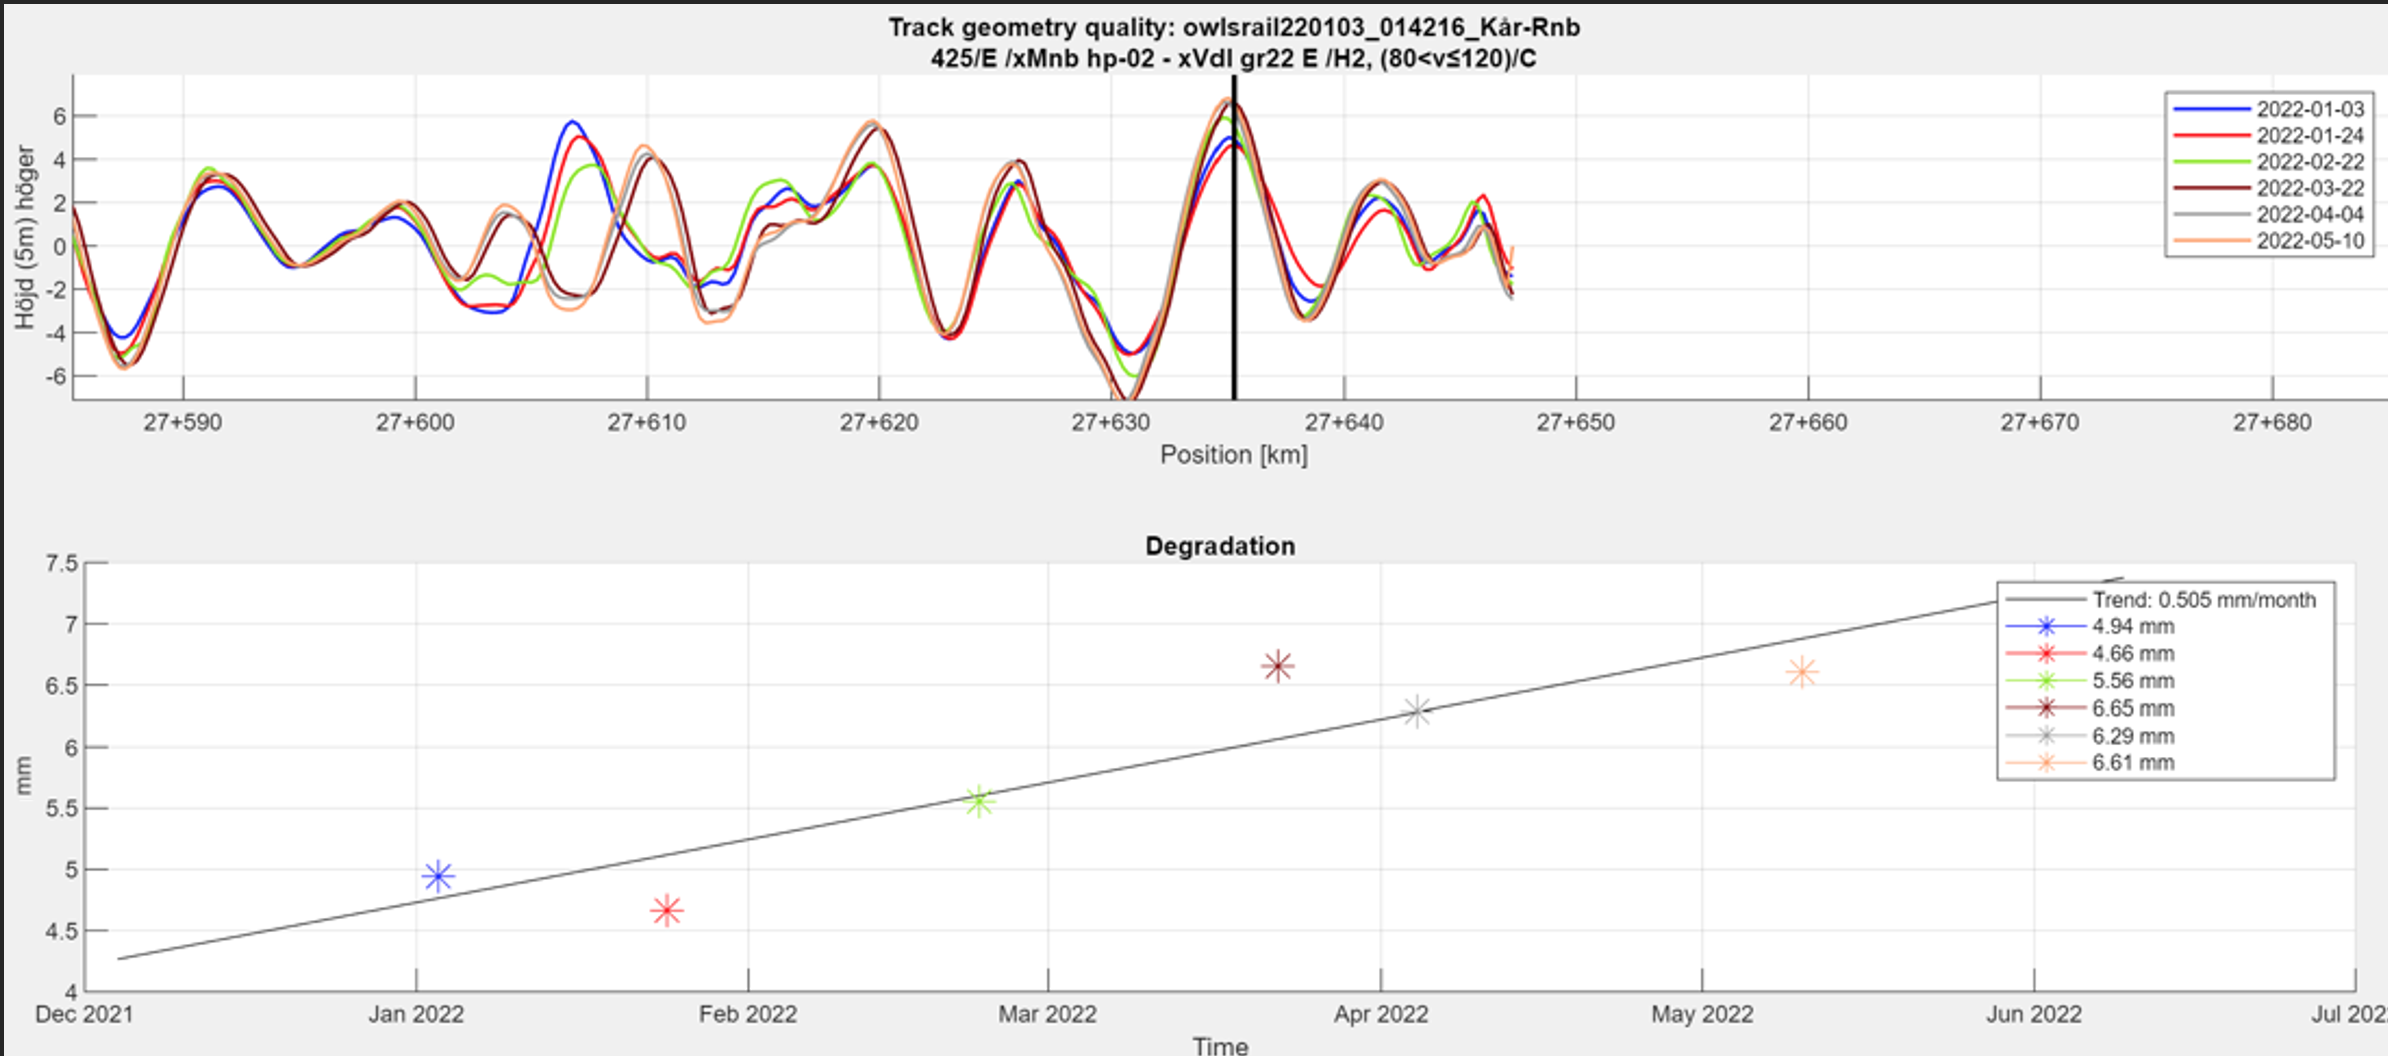
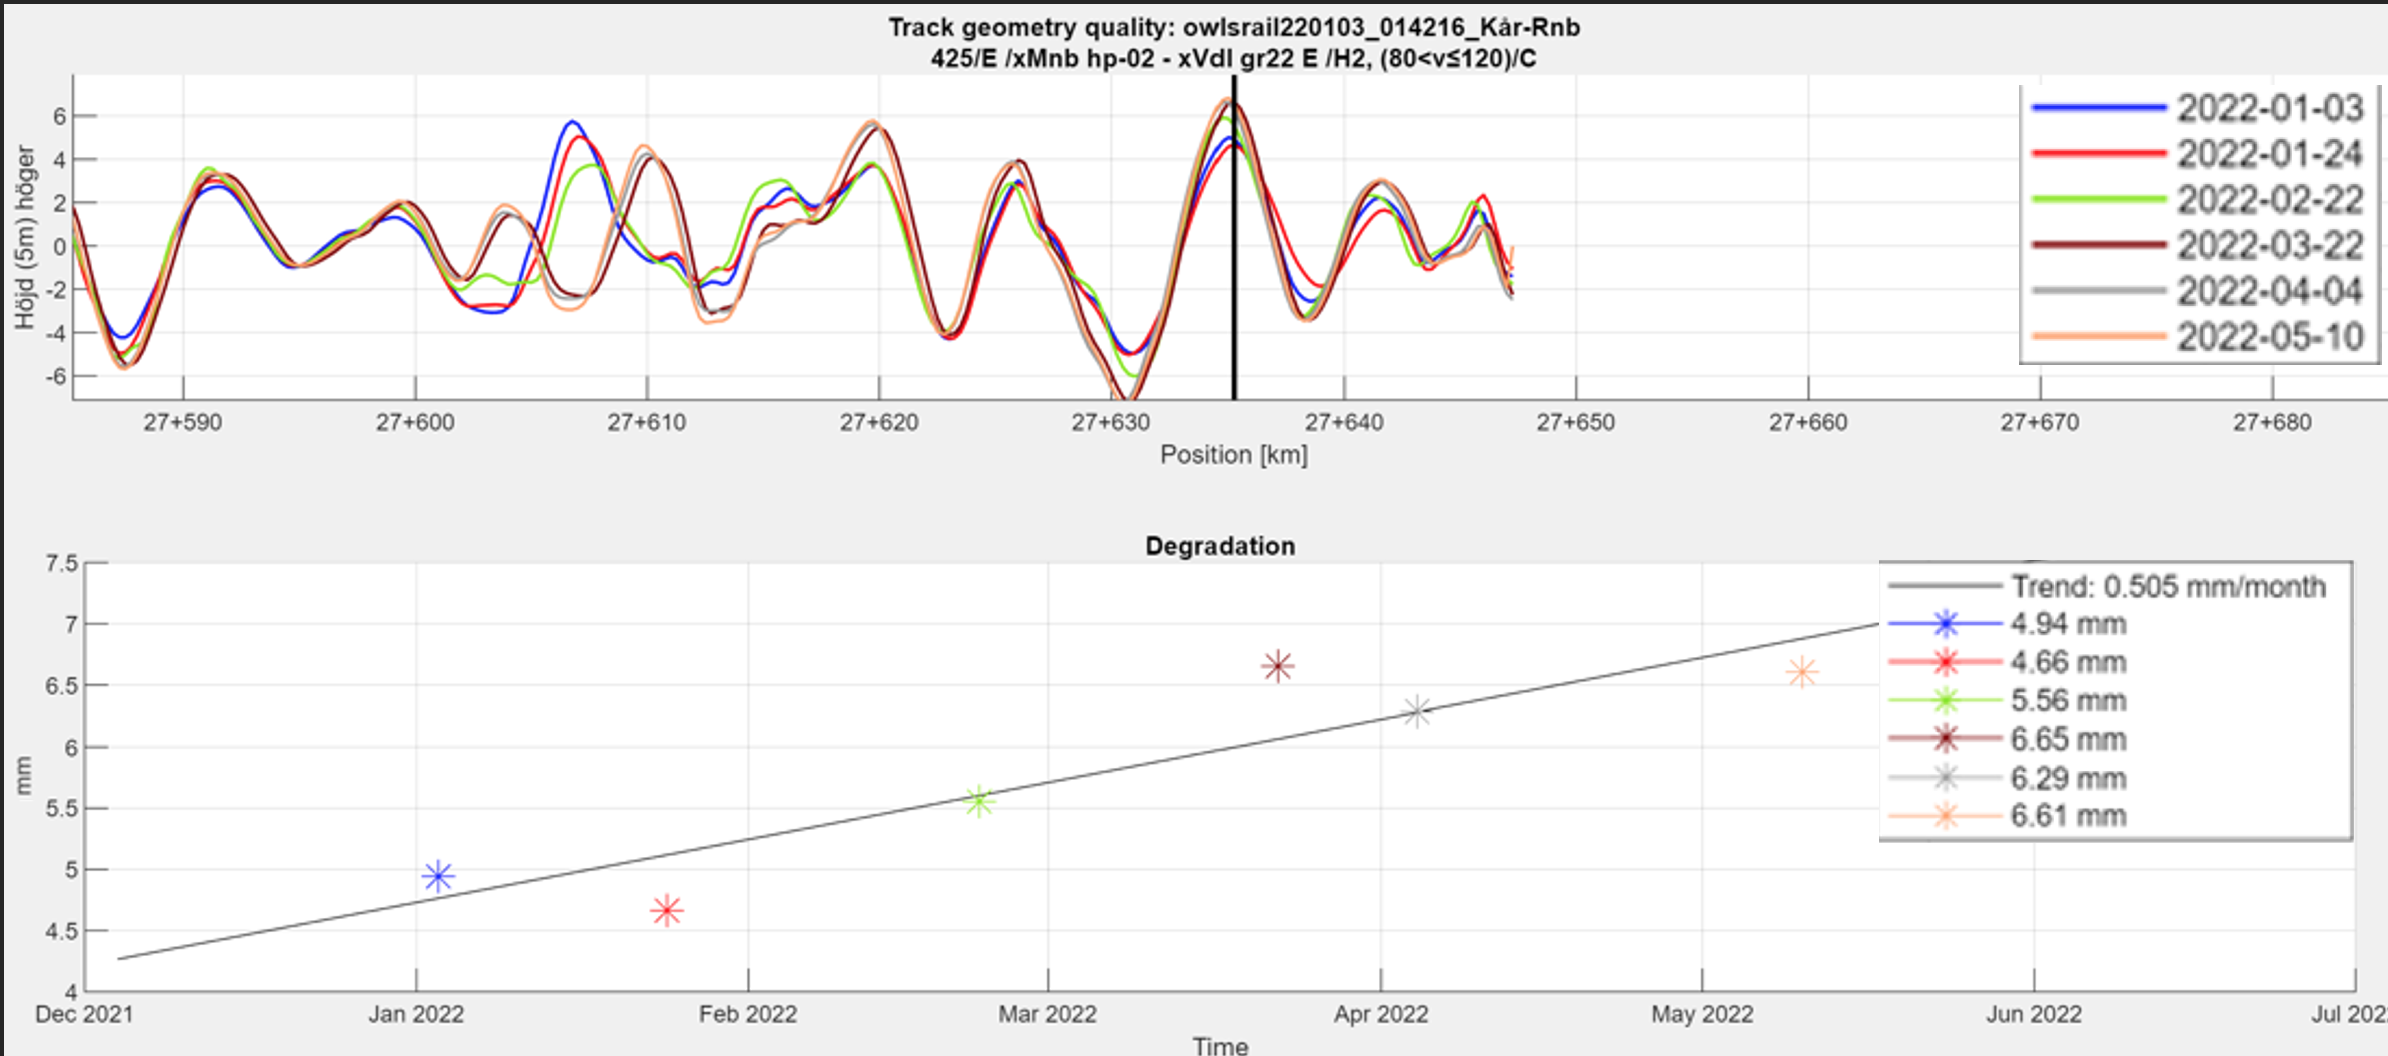
fixed some images and legending

Changed region(s): [[0.7747, 0.5312, 0.9916, 0.8125], [0.8367, 0.0625, 1.0, 0.3438]]

diff --git a/content/05.Predictive modeling.md b/content/05.Predictive modeling.md
@@ -54,7 +54,7 @@ $Gauge_{linear} = \left\lbrace\begin{array}{c} 1.309*Curvature + 1.201~~~~~~~~wh
 
 **Linear Exponential:**
 
-$Gauge_{exp} = \left\lbrace\begin{array}{c} 0.273*e^{Curvature} + 1.247~~~~~~~~when~ Curvature \geq 0\\ 0.273*e^{-Curvature} + 1.24~~~~~~~~when~ Curvature < 0 \end{array}\right.$
+$Gauge_{exp} = \left\lbrace\begin{array}{c} 0.273*e^{Curvature} + 1.247~~~~~~~~when~ Curvature \geq 0\\ 0.273*e^{-Curvature} + 1.247~~~~~~~~when~ Curvature < 0 \end{array}\right.$
 
 The RMSE found for each model were:
 
@@ -96,7 +96,7 @@ In general, the model fulfilled its role and did find locations of clear, steady
 
 In terms of accuracy, out of the hundred points picked up by the model, only eight of them could be considered to exhibit a trend necessitating urgent maintenance. This may seem catastrophic at first but it must be kept in mind that this is across fourty kilometers of line on sixty files, so narrowing down the result to just a hundred locations is already powerful. The locations highlighted are summed up in Table 4.
 
-**Table 4** Key locations as found by the model and sorted.
+**Table 4**: Key locations as found by the model and sorted.
 
 |     Figure    |     Position (km)    |     Trend (mm/month)    |     Measurement Period        |
 |---------------|-----------------|-------------------------|-------------------|
@@ -123,9 +123,9 @@ The results are displayed in more detail in Figure @fig:track27 to Figure @fig:t
 
 ![Kilometer 38](images/track38.png){#fig:track27 width="5in"}
 
-![Kilometer 7](images/track7.png){#fig:track27 width="5in"}
+![Kilometer 7](images/track7.png){#fig:track7 width="5in"}
 
-![Kilometer 8](images/track8.png){#fig:track27 width="5in"}
+![Kilometer 8](images/track8.png){#fig:track8 width="5in"}
 
 
 All in all, this model represents a serviceable tool for use in the track measurement industry. Its accuracy leaves somewhat to be desired, as a relatively portion of its output could be considered “incorrect” or “irrelevant” by an engineer looking to find critical degradation trends. The adjustment of inputs parameters may also affect the results significantly, but any kind of analysis is likely to require well-thought out input and critical thinking from the engineer. The problem at hand does not have an absolute truth or precise correct answer, and different engineers may judge the quality of this output differently themselves. Globally the model was successful in identifying key locations thousands of times faster than a human expert could, and the saying still seems to hold true: the quality of a machine depends largely on its user.   
